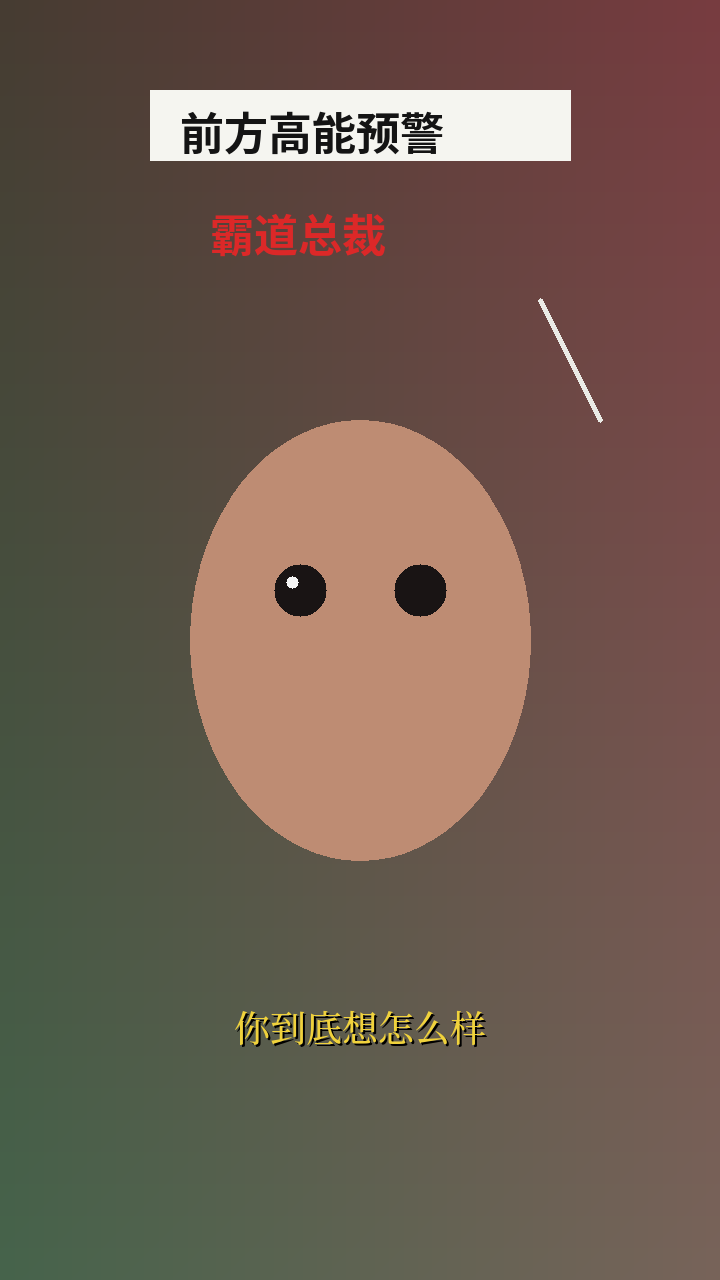
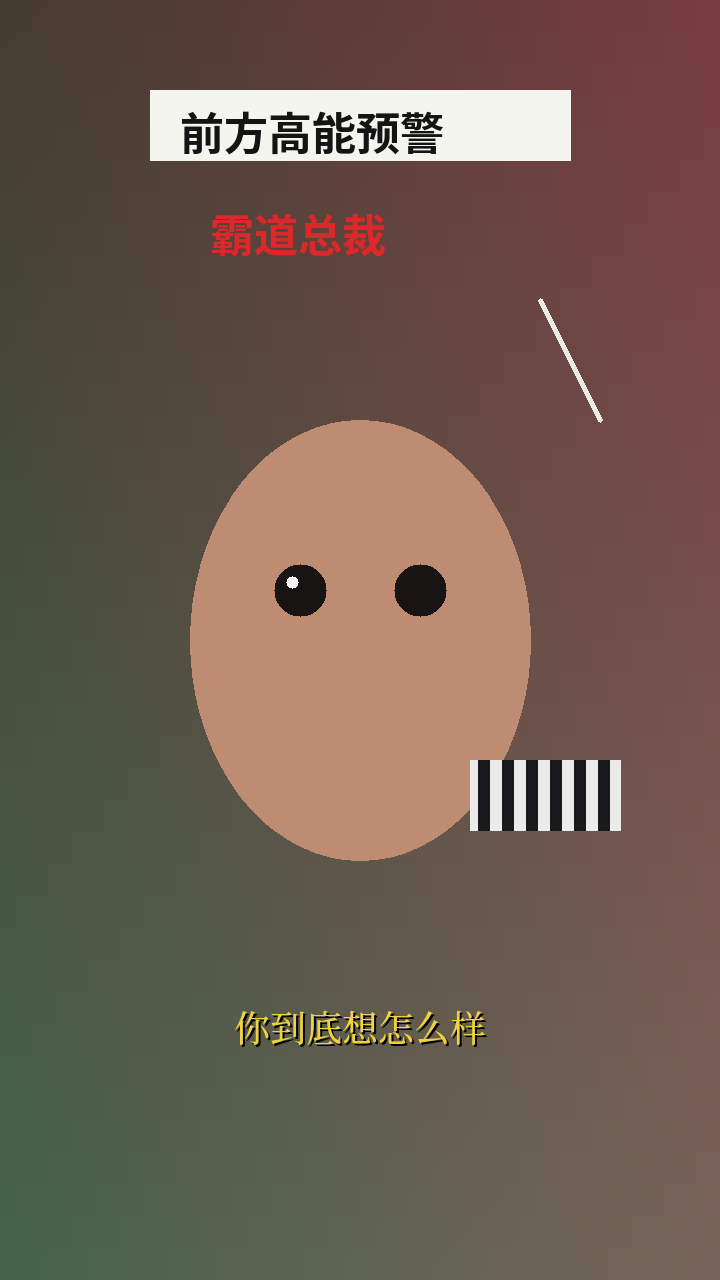
关键帧去字：找到的字先用 PP-OCRv3 认一遍，认得出字才补（条纹、发卡不动）
- 构建时下载 rapidocr_onnxruntime 1.2.3 的 PP-OCRv3 识别模型，onnxsim 固定 48x320，字表取自模型元数据
- 运行时自检必须认出 HELLO；打包检查要求识别模型和字表都在
- check-textclean.py：按真实剧集的识别结果核对判字规则；720 样图加衣服条纹，要求一个像素都不动
- 第三方说明补上识别模型来源

Claude-Session: https://claude.ai/code/session_01B4RYHTLbhDmSf5enqMBFkt

Changed region(s): [[0.6417, 0.5938, 0.8861, 0.6562]]

diff --git a/src/native/video-prompt/lama.js b/src/native/video-prompt/lama.js
@@ -14,6 +14,10 @@ const readline = require('node:readline');
 const MODEL_FILE = 'big-lama-fp16.pt';
 // 找字：PP-OCRv3 文字检测（OpenCV 官方模型库里的版本），整张画面哪里有字都找
 const DETECTOR_FILE = 'text_detection_cn_ppocrv3_2023may.onnx';
+// 认字：PP-OCRv3 文字识别（构建时把输入固定成 48×320，OpenCV 才能跑）和它的字表。认得出字的框才补，
+// 条纹、发卡、眼睛这类认不出字的不动
+const RECOGNIZER_FILE = 'ppocrv3_rec_48x320.onnx';
+const KEYS_FILE = 'ppocrv3_rec_keys.txt';
 
 // 任务行只用 ASCII（中文路径写成 \uXXXX）：Windows 上不管控制台是什么编码都不会读错
 const asciiJson = (value) =>
@@ -30,6 +34,8 @@ function createLamaWorker({
   prefix = [],
   model,
   detector = null,
+  recognizer = null,
+  keys = null,
   threads = 4,
   idleMs = 60_000,
   startTimeoutMs = 180_000,
@@ -74,6 +80,7 @@ function createLamaWorker({
     if (!model || !fs.existsSync(model)) return Promise.reject(new Error('LaMa 补图模型没装上（需要完整安装包）'));
     tail = '';
     const extra = detector && fs.existsSync(detector) ? ['--detector', detector] : [];
+    if (extra.length && recognizer && keys && fs.existsSync(recognizer) && fs.existsSync(keys)) extra.push('--recognizer', recognizer, '--keys', keys);
     const proc = spawn(command, [...prefix, 'inpaint', '--model', model, '--threads', String(threads), ...extra], {
       windowsHide: true,
       stdio: ['pipe', 'pipe', 'pipe'],
@@ -223,4 +230,4 @@ function createLamaWorker({
   };
 }
 
-module.exports = { MODEL_FILE, DETECTOR_FILE, createLamaWorker, asciiJson };
+module.exports = { MODEL_FILE, DETECTOR_FILE, RECOGNIZER_FILE, KEYS_FILE, createLamaWorker, asciiJson };

diff --git a/main.js b/main.js
@@ -56,7 +56,13 @@ const { draftCapacity } = require('./src/native/draft-capacity');
 const jianyingRelink = require('./src/native/jianying-relink');
 const jianyingLocator = require('./src/native/jianying-location');
 const { deriveEpisodePrompts } = require('./src/native/video-prompt/derive');
-const { createLamaWorker, MODEL_FILE: LAMA_MODEL_FILE, DETECTOR_FILE: TEXT_DETECTOR_FILE } = require('./src/native/video-prompt/lama');
+const {
+  createLamaWorker,
+  MODEL_FILE: LAMA_MODEL_FILE,
+  DETECTOR_FILE: TEXT_DETECTOR_FILE,
+  RECOGNIZER_FILE: TEXT_RECOGNIZER_FILE,
+  KEYS_FILE: TEXT_KEYS_FILE,
+} = require('./src/native/video-prompt/lama');
 const structureRuntime = require('./src/native/video-structure/runtime');
 const storyboardSnapshot = require('./src/native/video-prompt/snapshot');
 const storyboardHtmlTools = require('./src/native/video-prompt/html');
@@ -4875,6 +4881,8 @@ function getLamaWorker() {
       prefix: rt.prefix,
       model: path.join(rt.models, LAMA_MODEL_FILE),
       detector: path.join(rt.models, TEXT_DETECTOR_FILE),
+      recognizer: path.join(rt.models, TEXT_RECOGNIZER_FILE),
+      keys: path.join(rt.models, TEXT_KEYS_FILE),
       threads,
     });
     lamaWorkerKey = key;

diff --git a/src/native/video-prompt/subtitle-clean.js b/src/native/video-prompt/subtitle-clean.js
@@ -935,6 +935,11 @@ const TEXT_OPTIONS = {
   lama_width: 640,
   grow: 3,
   passes: 2,
+  // 认字（有识别模型时由它决定补不补）：认出两个字以上要有这么高的把握；只认出一个字的；
+  // 认出来全是 1、l、|、一、二、三、川、0、o 这类条纹样、圆点样的字要非常高（囚服条纹、栅栏、发卡、眼睛高光读出来就是这些）
+  rec_min: 0.55,
+  rec_single: 0.5,
+  rec_stripy: 0.85,
 };
 
 /** 整张找字用的尺寸：原片宽度（最多 1080），偶数。 */

diff --git a/src/native/video-structure/textclean.py b/src/native/video-structure/textclean.py
@@ -1,20 +1,91 @@
-"""Storyboard keyframes: find every piece of overlay text anywhere in the frame (subtitles wherever they sit, name cards,
-vertical captions, titles) with the PP-OCRv3 DB text detector through OpenCV, keep only boxes that look like real
-overlay text (thin gray-white / yellow strokes, several of them; ears, eyes and highlights are refused), repaint them
-with LaMa (only crops around the text), then look again; text still found where it was gets a second pass."""
+"""Storyboard keyframes: find every piece of text anywhere in the frame (subtitles wherever they sit, name cards,
+vertical captions, titles) with the PP-OCRv3 DB text detector through OpenCV, keep only boxes the PP-OCRv3 recognizer
+can actually read as characters (the way PaddleOCR drops low-score boxes; striped patches, hair clips, eyes and
+highlights read as nothing), repaint them with LaMa (only crops around the text), then look again; text still read
+where it was painted gets a second pass. Without the recognizer, a stroke check decides instead."""
 import time
 import numpy as np
 
 DET_MEAN = (122.67891434, 116.66876762, 104.00698793)
 # Defaults; the app sends its own values with every job (so they can be tuned without rebuilding this runtime).
 DEFAULTS = dict(binary=0.3, polygon=0.5, unclip=2.0, min_share=0.004, min_strokes=3, many_strokes=5, contrast=40,
-                min_luma=90, light_background=140, context=96, lama_width=640, grow=3, passes=2)
+                min_luma=90, light_background=140, context=96, lama_width=640, grow=3, passes=2,
+                rec_min=0.55, rec_single=0.5, rec_stripy=0.85)
+# What stripes, bars, edges and round highlights read as: such a reading only counts when the recognizer is very sure.
+STRIPY = set('1lIi|!丨一二三川-_—=.:·,，。、\'"`~0oO○〇°')
+
+
+class TextReader:
+    """PP-OCRv3 recognizer (input pinned to 1x3x48x320 at build time so OpenCV DNN can run it) with its character list."""
+
+    def __init__(self, path, keys):
+        import cv2
+        self.cv2 = cv2
+        self.net = cv2.dnn.readNetFromONNX(path)
+        with open(keys, encoding='utf-8') as handle:
+            self.chars = [''] + handle.read().split('\n') + [' ']  # CTC blank first, space last (as PaddleOCR)
+
+    def rectify(self, rgb, box):
+        cv2 = self.cv2
+        pts = np.array(box, np.float32)
+        s = pts.sum(1)
+        d = np.diff(pts, axis=1).ravel()
+        tl, br, tr, bl = pts[np.argmin(s)], pts[np.argmax(s)], pts[np.argmin(d)], pts[np.argmax(d)]
+        w = max(4, int(round(max(np.linalg.norm(tr - tl), np.linalg.norm(br - bl)))))
+        h = max(4, int(round(max(np.linalg.norm(bl - tl), np.linalg.norm(br - tr)))))
+        m = cv2.getPerspectiveTransform(np.array([tl, tr, br, bl], np.float32), np.array([[0, 0], [w, 0], [w, h], [0, h]], np.float32))
+        return cv2.warpPerspective(rgb, m, (w, h), flags=cv2.INTER_CUBIC, borderMode=cv2.BORDER_REPLICATE)
+
+    def horizontal(self, crop):
+        """Vertical text (name cards): cut into roughly square characters and lay them out left to right."""
+        h, w = crop.shape[:2]
+        if h < 1.5 * w:
+            return crop
+        n = max(1, int(round(h / w)))
+        step = h / n
+        return np.concatenate([self.cv2.resize(crop[int(i * step):int((i + 1) * step)], (w, w), interpolation=self.cv2.INTER_AREA) for i in range(n)], 1)
+
+    def read_line(self, line):
+        cv2 = self.cv2
+        h, w = line.shape[:2]
+        pieces = max(1, int(np.ceil(48 * w / h / 320)))  # the model reads at most 320 px wide at a time
+        texts, confs = [], []
+        for k in range(pieces):
+            part = line[:, int(k * w / pieces):int((k + 1) * w / pieces)]
+            pw = min(320, max(8, int(round(48 * part.shape[1] / h))))
+            img = cv2.resize(part, (pw, 48), interpolation=cv2.INTER_AREA).astype(np.float32)[..., ::-1]  # RGB -> BGR
+            blob = np.zeros((1, 3, 48, 320), np.float32)
+            blob[0, :, :, :pw] = ((img / 255.0 - 0.5) / 0.5).transpose(2, 0, 1)
+            self.net.setInput(blob)
+            probs = self.net.forward()[0]
+            last = 0
+            for i, p in zip(probs.argmax(1), probs.max(1)):
+                if i != 0 and i != last and i < len(self.chars):
+                    texts.append(self.chars[i])
+                    confs.append(float(p))
+                last = i
+        return ''.join(texts).strip(), (float(np.mean(confs)) if confs else 0.0)
+
+    def read(self, rgb, box):
+        return self.read_line(self.horizontal(self.rectify(rgb, box)))
+
+
+def readable(text, conf, options):
+    core = [c for c in text if not c.isspace()]
+    if not core:
+        return False
+    if all(c in STRIPY for c in core):
+        return conf >= float(options['rec_stripy'])
+    if len(core) == 1:
+        return conf >= float(options['rec_single'])
+    return conf >= float(options['rec_min'])
 
 
 class TextFinder:
-    def __init__(self, path):
+    def __init__(self, path, recognizer=None, keys=None):
         import cv2
         self.cv2 = cv2
+        self.reader = TextReader(recognizer, keys) if recognizer and keys else None
         self.model = cv2.dnn_TextDetectionModel_DB(path)
         self.model.setBinaryThreshold(0.3)
         self.model.setPolygonThreshold(0.5)
@@ -102,12 +173,21 @@ class TextFinder:
         n, _ = cv2.connectedComponents(mask.astype(np.uint8), connectivity=8)
         return n - 1, None
 
+    def judge(self, rgb, box):
+        """(ok, reason, text): with the recognizer, a box counts only when it reads as characters."""
+        if self.reader is None:
+            ok, why = self.looks_like_text(rgb, box)
+            return ok, why, ''
+        text, conf = self.reader.read(rgb, box)
+        options = getattr(self, 'options', DEFAULTS)
+        return readable(text, conf, options), f'read {text!r} {conf:.2f}', text
+
     def find(self, rgb):
         boxes, scores = self.raw(rgb)
         kept, rejected = [], []
         for box, score in zip(boxes, scores):
-            ok, why = self.looks_like_text(rgb, box)
-            (kept if ok else rejected).append((box, score, why))
+            ok, why, text = self.judge(rgb, box)
+            (kept if ok else rejected).append((box, text, why))
         return kept, rejected
 
 
@@ -198,7 +278,7 @@ def clean_frame(finder, model, torch, rgb, options=None):
             lama_fill(model, torch, rgb, mask, rect, scale=min(1.0, float(options['lama_width']) / w))
         again, _refused = finder.find(rgb)
         current = [item for item in again if _overlap(painted, item[0]) > 0.3]
-    boxes = [[int(v) for v in (*np.floor(box.min(0)), *np.ceil(box.max(0)))] + [why] for box, _, why in found]
+    boxes = [[int(v) for v in (*np.floor(box.min(0)), *np.ceil(box.max(0)))] + [why, text] for box, text, why in found]
     return rgb, dict(boxes=boxes, rejected=[why for _, _, why in rejected], residue=bool(current), seconds=round(time.time() - started, 3))
 
 

diff --git a/scripts/setup-video-structure.py b/scripts/setup-video-structure.py
@@ -65,6 +65,53 @@ def half_lama(source, target):
     torch.jit.save(model, str(temp))
     os.replace(temp, target)
 
+REC_FILE = 'ppocrv3_rec_48x320.onnx'
+REC_KEYS = 'ppocrv3_rec_keys.txt'
+REC_CONVERT = '''
+import sys
+import onnx
+from onnxsim import simplify
+source, target, keys = sys.argv[1:4]
+model = onnx.load(source)
+chars = next(p.value for p in model.metadata_props if p.key == 'character')
+if len(chars.split('\\n')) != 6623:
+    raise SystemExit('unexpected character list')
+with open(keys, 'w', encoding='utf-8', newline='') as handle:
+    handle.write(chars)
+fixed, ok = simplify(model, overwrite_input_shapes={'x': [1, 3, 48, 320]})
+if not ok:
+    raise SystemExit('simplify failed')
+onnx.save(fixed, target)
+'''
+
+def rec_converter_python():
+    """Build-machine tool venv for pinning the recognizer's input shape (onnx / onnxsim are not bundled)."""
+    venv = CACHE / 'rec-convert-venv'
+    python = venv / ('Scripts/python.exe' if sys.platform == 'win32' else 'bin/python')
+    if not python.exists():
+        subprocess.run([sys.executable, '-m', 'venv', str(venv)], check=True)
+    subprocess.run([str(python), '-m', 'pip', 'install', '--disable-pip-version-check', '--only-binary=:all:', 'onnx==1.23.2', 'onnxsim==0.8.1'], check=True)
+    return python
+
+def prepare_recognizer(models):
+    """PP-OCRv3 text recognizer (PaddleOCR, Apache-2.0) as shipped in RapidOCR's PyPI package; its input is pinned to
+    1x3x48x320 so OpenCV DNN can run it, and its character list is written next to it."""
+    import zipfile
+    if (models / REC_FILE).exists() and (models / REC_KEYS).exists():
+        return
+    wheel = CACHE / 'rapidocr_onnxruntime-1.2.3-py3-none-any.whl'
+    if not wheel.exists():
+        subprocess.run([sys.executable, '-m', 'pip', 'download', '--disable-pip-version-check', '--no-deps', '--only-binary=:all:', 'rapidocr_onnxruntime==1.2.3', '-d', str(CACHE)], check=True)
[1 lines of base64/hex data omitted]
+        raise RuntimeError('Pinned package checksum mismatch: rapidocr_onnxruntime 1.2.3')
+    source = CACHE / 'ch_PP-OCRv3_rec_infer.onnx'
+    source.write_bytes(zipfile.ZipFile(wheel).read('rapidocr_onnxruntime/models/ch_PP-OCRv3_rec_infer.onnx'))
[1 lines of base64/hex data omitted]
+        raise RuntimeError('Pinned model checksum mismatch: ch_PP-OCRv3_rec_infer.onnx')
+    script = CACHE / 'convert_rec.py'
+    script.write_text(REC_CONVERT, encoding='utf-8')
+    subprocess.run([str(rec_converter_python()), str(script), str(source), str(models / REC_FILE), str(models / REC_KEYS)], check=True)
+
 def main():
     DEST.mkdir(parents=True, exist_ok=True)
     models = DEST / 'models'
@@ -84,6 +131,7 @@ def main():
     # PP-OCRv3 text detector (PaddleOCR, Apache-2.0) as published in the OpenCV model zoo for cv2.dnn: storyboard
     # keyframes are scanned for text anywhere in the frame (subtitles wherever they sit, name cards, vertical captions).
     fetch('https://media.githubusercontent.com/media/opencv/opencv_zoo/main/models/text_detection_ppocr/text_detection_cn_ppocrv3_2023may.onnx', models / 'text_detection_cn_ppocrv3_2023may.onnx')
+    prepare_recognizer(models)
     model_name = 'sherpa-onnx-paraformer-zh-small-2024-03-09'
     if not (models / model_name / 'model.int8.onnx').exists():
         archive(f'https://github.com/k2-fsa/sherpa-onnx/releases/download/asr-models/{model_name}.tar.bz2', models)

diff --git a/scripts/build-video-structure.py b/scripts/build-video-structure.py
@@ -41,7 +41,7 @@ def lama_self_test(executable, env, model, cache):
     print('Frozen LaMa self-test: mean error', round(error, 1), flush=True)
 
 
-def text_self_test(executable, env, model, detector, cache):
+def text_self_test(executable, env, model, detector, cache, recognizer=None, keys=None):
     """The frozen worker must find text drawn anywhere on a picture (a line at the bottom and a vertical caption on the
     left) and repaint it so that looking again finds nothing."""
     import cv2
@@ -55,13 +55,16 @@ def text_self_test(executable, env, model, detector, cache):
     crop, output = cache / 'frozen-text.rgb', cache / 'frozen-text-out.rgb'
     crop.write_bytes(np.ascontiguousarray(image).tobytes()); output.unlink(missing_ok=True)
     job = json.dumps(dict(id=1, op='clean', input=str(crop), output=str(output), width=width, height=height))
-    run = subprocess.run([str(executable), 'inpaint', '--model', str(model), '--detector', str(detector), '--threads', '2'], input=job + '\n', env=env, capture_output=True, text=True, encoding='utf-8', timeout=900)
+    reading = ['--recognizer', str(recognizer), '--keys', str(keys)] if recognizer else []
+    run = subprocess.run([str(executable), 'inpaint', '--model', str(model), '--detector', str(detector), *reading, '--threads', '2'], input=job + '\n', env=env, capture_output=True, text=True, encoding='utf-8', timeout=900)
     replies = [json.loads(line) for line in run.stdout.splitlines() if line.strip().startswith('{')]
-    if run.returncode != 0 or [r.get('type') for r in replies] != ['ready', 'done'] or not replies[0].get('detector'):
+    if run.returncode != 0 or [r.get('type') for r in replies] != ['ready', 'done'] or not replies[0].get('detector') or (recognizer and not replies[0].get('recognizer')):
         raise RuntimeError('Frozen text self-test failed: ' + run.stdout[-800:] + run.stderr[-1500:])
     done = replies[1]
     if len(done.get('boxes') or []) < 2 or done.get('residue'):
         raise RuntimeError(f'Frozen text self-test did not find / remove the text: {done}')
+    if recognizer and not any('HELLO' in str(box[-1]).upper() for box in done['boxes']):
+        raise RuntimeError(f'Frozen text self-test: the recognizer did not read the line: {done}')
     if len(output.read_bytes()) != width * height * 3:
         raise RuntimeError('Frozen text self-test returned a wrong size')
     print('Frozen text self-test:', len(done['boxes']), 'text boxes removed in', done.get('seconds'), 's', flush=True)
@@ -104,7 +107,7 @@ def main():
     invalid=subprocess.run([str(executable),'verify-shots','--input',str(review_frames),'--timeline',str(timeline),'--predictions',str(test),'--threshold','0.6','--output',str(invalid_output)],env=env,capture_output=True,text=True)
     if invalid.returncode==0 or invalid_output.exists() or 'Invalid verification timeline or prediction scores' not in invalid.stderr:raise RuntimeError('Frozen shot verifier accepted an unapproved threshold')
     lama_self_test(executable,env,models/'big-lama-fp16.pt',cache)
-    text_self_test(executable,env,models/'big-lama-fp16.pt',models/'text_detection_cn_ppocrv3_2023may.onnx',cache)
+    text_self_test(executable,env,models/'big-lama-fp16.pt',models/'text_detection_cn_ppocrv3_2023may.onnx',cache,models/'ppocrv3_rec_48x320.onnx',models/'ppocrv3_rec_keys.txt')
     license_dir=out/'licenses';license_dir.mkdir(exist_ok=True)
     for name in ['torch','sherpa-onnx','numpy','opencv-python-headless','sympy','networkx','filelock','fsspec','jinja2','markupsafe','mpmath']:
         dist=importlib.metadata.distribution(name)

diff --git a/scripts/check-textclean.py b/scripts/check-textclean.py
@@ -1,0 +1,28 @@
+"""Keyframe text cleaning: which recognizer readings count as text (taken from a real episode: subtitles, name cards
+and a document title are text; a hair clip read as '0', prison-uniform stripes read as '1' / '三' are not), and vertical
+name cards laid out as a line for the recognizer. No models needed."""
+import sys
+from pathlib import Path
+import numpy as np
+
+sys.path.insert(0, str(Path(__file__).resolve().parents[1] / 'src/native/video-structure'))
+from textclean import DEFAULTS, readable, TextReader  # noqa: E402
+
+cases = [
+    ('三年前', 1.00, True), ('男主', 0.80, True), ('林', 0.93, True), ('你倩', 0.60, True), ('林大县元', 0.71, True),
+    ('所有责任都落落到了我身上', 0.87, True), ('设备转让让协司', 0.99, True), ('c', 0.52, True), ('D', 0.9, True),
+    ('0', 0.32, False), ('1', 0.35, False), ('三', 0.52, False), ('111', 0.8, False), ('川', 0.7, False),
+    ('o', 0.6, False), ('一二', 0.84, False), ('一二', 0.9, True), ('', 0.99, False), ('  ', 0.99, False),
+    ('好', 0.45, False), ('你好', 0.5, False),
+]
+for text, conf, expect in cases:
+    assert readable(text, conf, DEFAULTS) is expect, (text, conf, expect)
+
+reader = TextReader.__new__(TextReader)
+import cv2  # noqa: E402
+reader.cv2 = cv2
+vertical = np.zeros((300, 60, 3), np.uint8)
+line = reader.horizontal(vertical)
+assert line.shape == (60, 300, 3), line.shape  # five stacked characters -> one line of five
+assert reader.horizontal(np.zeros((40, 200, 3), np.uint8)).shape == (40, 200, 3)  # horizontal text unchanged
+print('PASS text cleaning: readings judged like the real episode (text kept, hair clip / stripes refused); vertical cards read as a line')

diff --git a/src/native/video-structure/runner.py b/src/native/video-structure/runner.py
@@ -229,8 +229,9 @@ def inpaint_server(args):
     finder = None
     if args.detector:
         from textclean import TextFinder
-        finder = TextFinder(args.detector)
-    print(json.dumps(dict(type='ready', torch=torch.__version__, threads=torch.get_num_threads(), detector=bool(finder))), flush=True)
+        finder = TextFinder(args.detector, args.recognizer, args.keys)
+    print(json.dumps(dict(type='ready', torch=torch.__version__, threads=torch.get_num_threads(), detector=bool(finder),
+                          recognizer=bool(finder and finder.reader))), flush=True)
     for line in sys.stdin:
         line = line.strip()
         if not line:
@@ -291,6 +292,8 @@ def main():
     parser.add_argument('--min-silence', type=float, default=0.5)
     parser.add_argument('--min-speech', type=float, default=0.25)
     parser.add_argument('--detector')
+    parser.add_argument('--recognizer')
+    parser.add_argument('--keys')
     args = parser.parse_args()
     if args.module == 'inpaint':
         inpaint_server(args)

diff --git a/THIRD-PARTY-NOTICES.md b/THIRD-PARTY-NOTICES.md
@@ -112,6 +112,7 @@ cuBLAS、cuDNN 9 及 CUDA runtime 的可再分发动态库和 Microsoft Visual C
 - 中文标点恢复采用 sherpa-onnx 官方发布的 CT-Transformer 2024-04-12 int8 转换模型；上游 [ModelScope iic 模型卡](https://modelscope.cn/models/iic/punc_ct-transformer_zh-cn-common-vocab272727-pytorch/) 标注 Apache-2.0。安装包仅在本机运行该模型，构建脚本校验模型 SHA256；标点只是句界候选，不能保证语义准确。
 - PyTorch 2.5.1、NumPy 1.26.4 许可证随内置运行时收集；用户端不会执行 pip 或在线安装模型。
 - 分镜工程图关键帧整张找字采用 PaddleOCR 的 PP-OCRv3 文字检测模型（Apache-2.0），模型文件取自 [OpenCV 模型库 opencv_zoo](https://github.com/opencv/opencv_zoo/tree/main/models/text_detection_ppocr)（text_detection_cn_ppocrv3_2023may.onnx，构建脚本校验 SHA256），用内置运行时里的 OpenCV DNN 在本机运行。
+- 找到的字先用 PaddleOCR 的 PP-OCRv3 中文文字识别模型（Apache-2.0）认一遍，认得出字的才补，衣服条纹、发卡之类不动。模型文件和字表取自 [RapidOCR](https://github.com/RapidAI/RapidOCR) 的 rapidocr_onnxruntime 1.2.3 发布包（Apache-2.0，ch_PP-OCRv3_rec_infer.onnx，构建脚本校验发布包和模型的 SHA256），构建时用 onnxsim 把输入固定成 48×320（ppocrv3_rec_48x320.onnx，字表取自模型自带的 character 元数据，存为 ppocrv3_rec_keys.txt），用内置运行时里的 OpenCV DNN 在本机运行。
 - 分镜工程图关键帧去字幕采用 LaMa（big-lama，Roman Suvorov 等，[advimman/lama](https://github.com/advimman/lama)，Apache-2.0）。模型文件取自 IOPaint 项目发布的 TorchScript 导出版（[Sanster/models add_big_lama](https://github.com/Sanster/models/releases/tag/add_big_lama)），构建脚本校验 SHA256 后把权重存成 float16 以减小安装包（运行时转回 float32），许可证随源码存放于 src/native/video-structure/vendor/LAMA-LICENSE.txt，并随运行时放在 licenses/LaMa-Apache-2.0.txt。只在本机运行，不联网。
 
 ## 海报标题字体
